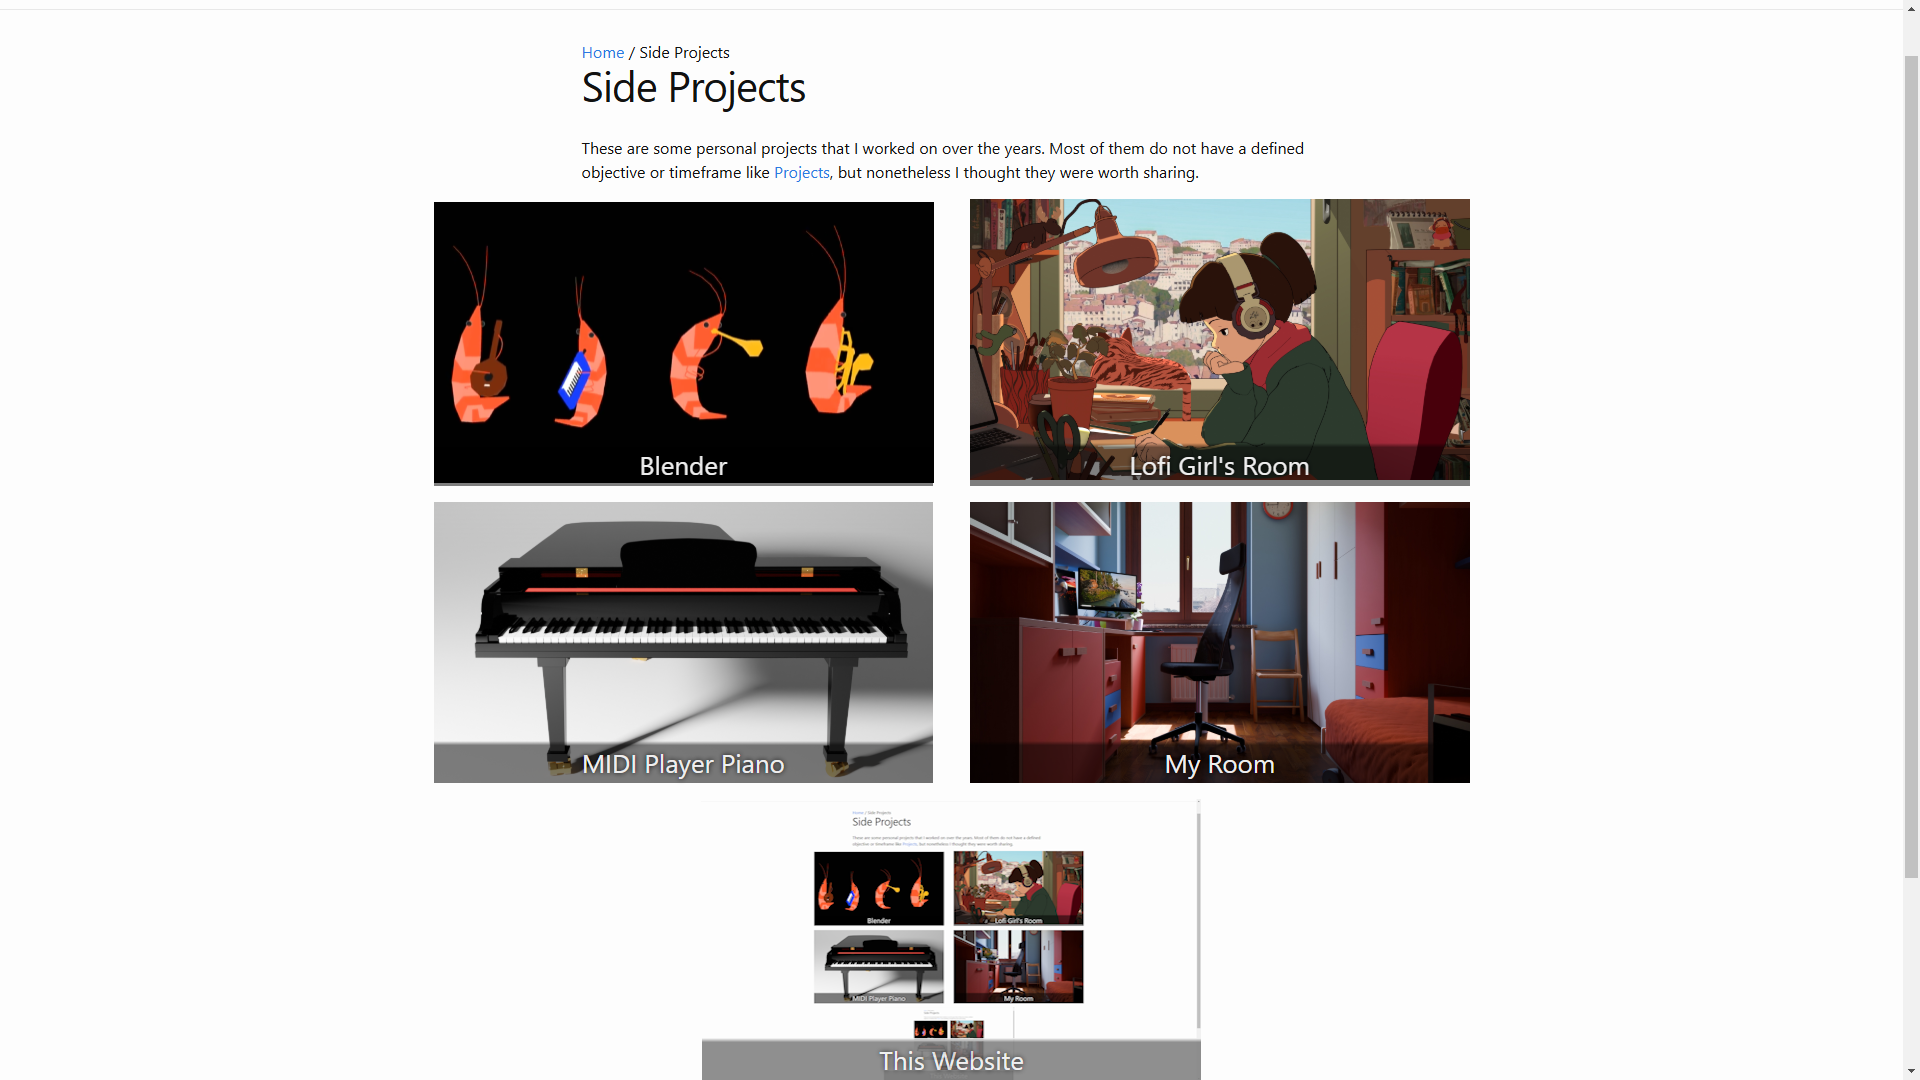
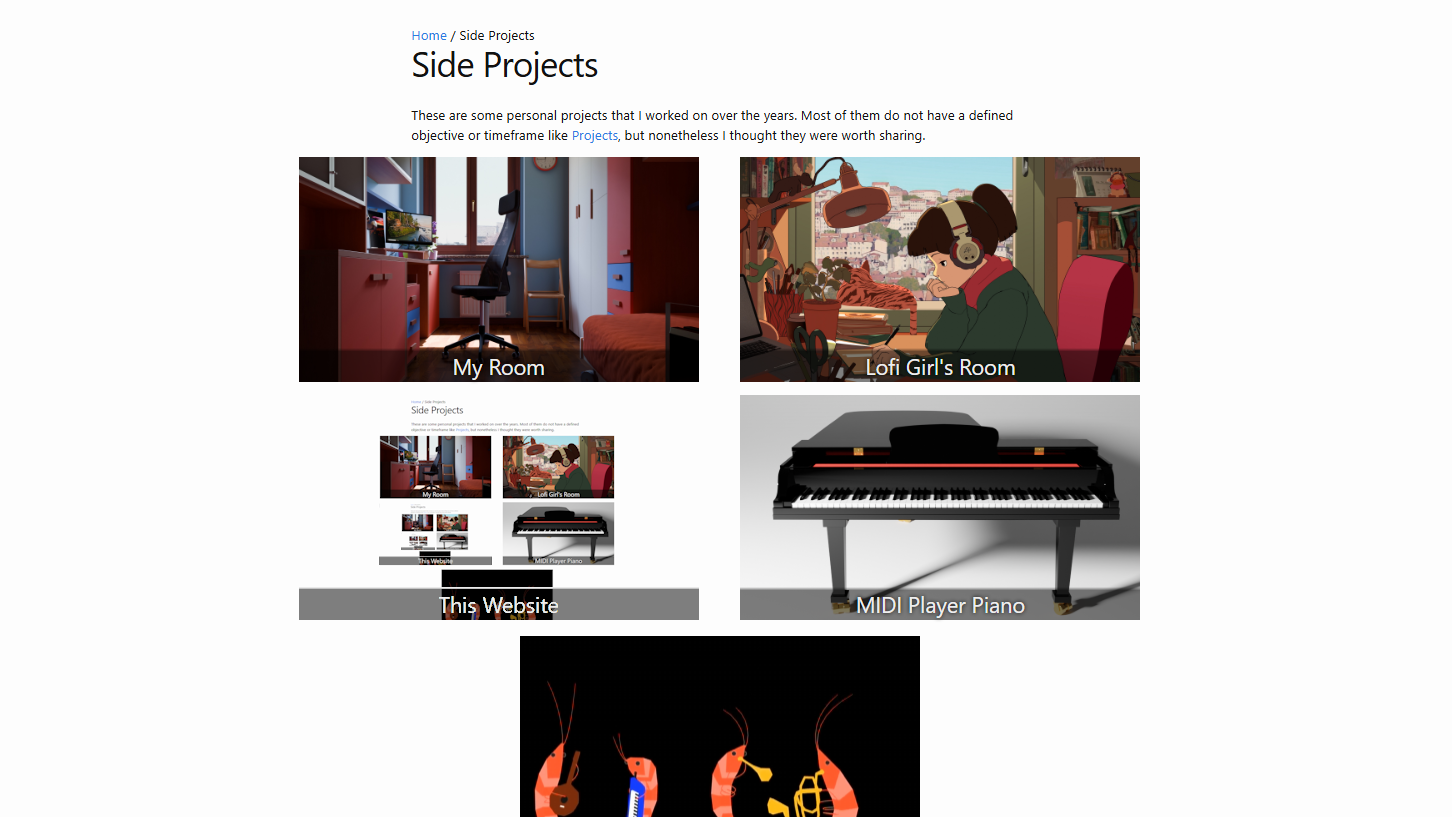
Added ToC, some mobile layout optimizations
Added dynamic Table of Contents to projects
Added option to order projects and side-projects by specifying a list of titles
Fixed a few layout elements to work better on mobile
Changed order of projects and side-projects
Updated site config
Removed projects from landing page

diff --git a/_includes/list-summary.html b/_includes/list-summary.html
@@ -1,38 +1,46 @@
+{% if include.page %}
+    {% assign project = include.page %}
+{% else if include.title %}
+    {% assign project = site.projects
+        | where_exp:"project", "project.slug == include.title" 
+        | first %}
+{% endif %}
+
 <table class="summary">
     <tr>
-        {% if include.page.miniature %}
-            {% if include.page.miniature == "title" %}
-                {% assign miniature-src = "/assets/media/" | append: include.page.title | append: "/miniature.mp4" | downcase %}
+        {% if project.miniature %}
+            {% if project.miniature == "title" %}
+                {% assign miniature-src = "/assets/media/" | append: project.title | append: "/miniature.mp4" | downcase %}
             {% else %}
-                {% assign miniature-src = include.page.miniature %}
+                {% assign miniature-src = project.miniature %}
             {% endif %}
             <td rowspan="2" style="width:{{include.miniature-w}}">
-                <a href="{{include.page.url}}">
+                <a href="{{project.url}}">
                     {% include gif-like.html src=miniature-src w=include.miniature-w h=include.miniature-h %}
                 </a>
             </td>
         {% endif %}
         <td>
-            <h1><a href="{{include.page.url}}">{{include.page.title}}</a></h1>
+            <h1><a href="{{project.url}}">{{project.title}}</a></h1>
         </td>
     </tr>
     <tr>
         <td>
             <div class="chips">
-                {% for language in include.page.languages %}
+                {% for language in project.languages %}
                     {% include chip.html text=language %}
                 {% endfor %}
                 <span>&nbsp;&nbsp;&nbsp;</span>
-                {% for tag in include.page.tags %}
+                {% for tag in project.tags %}
                     {% include chip.html text=tag %}
                 {% endfor %}
             </div>
         </td>  
     </tr>
-    {% if include.page.summary %}
+    {% if project.summary %}
         <tr>
-            <td {% if include.page.miniature %}colspan="2"{% endif %}>
-                {{include.page.summary | markdownify}}
+            <td {% if project.miniature %}colspan="2"{% endif %}>
+                {{project.summary | markdownify}}
             </td>
         </tr>
     {% endif %}

diff --git a/assets/css/styles.scss b/assets/css/styles.scss
@@ -1,6 +1,7 @@
 ---
 ---
 @import "premonition";
+@import "minima";
 
 .summary {
     .chips {
@@ -40,12 +41,12 @@
 }
 
 .side-projects-holder {
-    --holder-width: 150%;
-    --text-height: 15%;
+    $holder-width: 150%;
+    $text-height: 15%;
 
     position: relative;
-    width: var(--holder-width);
-    margin-left: calc((100% - var(--holder-width))/2);
+    width: $holder-width;
+    margin-left: calc((100% - #{$holder-width})/2);
     display: flex;
     flex-wrap: wrap;
     justify-content: space-evenly;
@@ -54,7 +55,7 @@
     .side-project-box {
         display: block;
         position: relative;
-        width: 45%;
+        width: 30em;
 
         img {
             transition: filter 0.4s ease;
@@ -68,7 +69,7 @@
     .side-project-text {
         position: absolute;
         width: 100%;
-        height: var(--text-height);
+        height: $text-height;
         bottom: 0;
         left: 0;
         color: #eeeeee;
@@ -85,9 +86,69 @@
     }
 }
 
+@include media-query($on-palm) {
+    .side-projects-holder {
+        width: 100%;
+        margin: 0;
+    }
+}
+
 .custom-lil-gui.lil-gui {
     --width: 45%;
     position: absolute;
     top: 0;
     right: 0;
+}
+
+
+.table-of-contents {
+    $gutter-width: calc((100vw - #{$content-width}) / 2);
+    position: fixed;
+    top: 25%;
+    left: 0;
+    translate: calc((#{$gutter-width} - 100%));
+    //left: $spacing-unit;
+    margin-inline: auto;
+    max-width: $gutter-width;
+    max-height: 50%;
+    overflow-y: auto;
+    background-color: $grey-color-light;
+    
+    h4, table {
+        margin: 0;
+    }
+
+    th {
+        position: sticky;
+        top: 0;
+        z-index: 1;
+        padding: 1em;
+    }
+    ul {
+        list-style-type: none;
+        margin: 0 1em;
+    }
+    li:has(a.active) {
+        list-style-type: "\25B7";
+    }
+    li:has(>a.active) {
+        list-style-type: "\25B6\FE0E";
+    }
+    a {
+        display: block;
+        width: 100%;
+        
+        &.active {
+            background-color: #00000020;
+        }
+    }
+}
+
+@include media-query($on-laptop) {
+    .table-of-contents {
+        position: relative;
+        translate: 0;
+        max-width: fit-content;
+        margin: 0 0 $spacing-unit $spacing-unit;
+    }
 }

diff --git a/assets/js/dynamic-toc.js b/assets/js/dynamic-toc.js
@@ -1,0 +1,22 @@
+// Adapted from https://www.freecodecamp.org/news/how-to-make-a-dynamic-table-of-contents-in-javascript/
+
+const tocElement = document.getElementById("markdown-toc");
+if (tocElement) {
+    const tocHeaders = [...tocElement.getElementsByTagName("li")];
+    const textHeaders = tocHeaders.map(header => document.getElementById(header.firstChild.getAttribute("href").substring(1)));
+    
+    const handleIntersect = (entries) => {
+        entries.forEach(entry => {
+            if (entry.isIntersecting) {
+                const index = textHeaders.indexOf(entry.target);
+                tocHeaders.forEach((elem) => {
+                    elem.firstChild.classList.remove("active");
+                });
+                tocHeaders[index].firstChild.classList.add("active");
+            }
+        });
+    };
+    
+    const observer = new IntersectionObserver(handleIntersect, {rootMargin: "50% 0px -50%", threshold: 1.0});
+    textHeaders.forEach(elem => observer.observe(elem));
+}

diff --git a/_includes/side-project-summary.html b/_includes/side-project-summary.html
@@ -1,13 +1,20 @@
-<a href="{{include.page.url}}" class="side-project-box">
-    {% if include.page.thumbnail contains "mp4" %}
-        {% include gif-like.html w="100%" h="100%" src=include.page.thumbnail %}
+{% if include.page %}
+    {% assign side-project = include.page %}
+{% else if include.title %}
+    {% assign side-project = site.side-projects
+        | where_exp:"side-project", "side-project.slug == include.title" 
+        | first %}
+{% endif %}
+
+<a href="{{side-project.url}}" class="side-project-box">
+    {% if side-project.thumbnail contains "mp4" %}
+        {% include gif-like.html w="100%" h="100%" src=side-project.thumbnail %}
     {% else %}
-        <img src="{{include.page.thumbnail}}"/>
+        <img src="{{side-project.thumbnail}}"/>
     {% endif %}
     <div class="side-project-text">
         <h3>
-            {{include.page.title}}
+            {{side-project.title}}
         </h3>
     </div>
-
 </a>

diff --git a/_includes/toc.html b/_includes/toc.html
@@ -1,0 +1,10 @@
+<div class="table-of-contents">
+    <table>
+        <th>
+            <h4> {{page.title}} </h4>
+        </th>
+        <tr>
+            <td markdown="1">
+* Unordered List
+{:toc}
+</td></tr></table></div>

diff --git a/_layouts/page.html b/_layouts/page.html
@@ -30,3 +30,4 @@ layout: default
 </article>
 
 <script type="text/javascript">wikipediaPreview.init({detectLinks: true});</script>
+<script src="/assets/js/dynamic-toc.js"></script>
